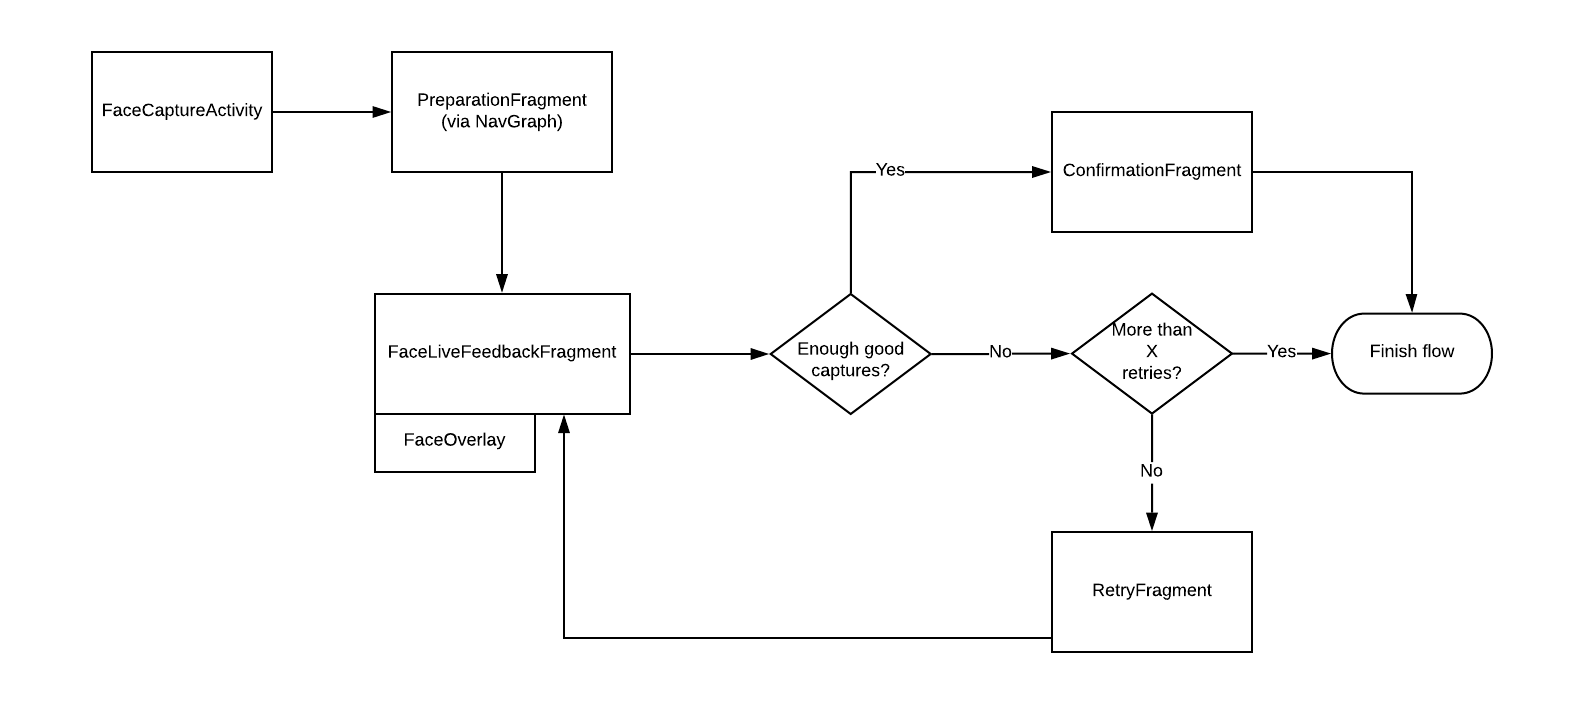
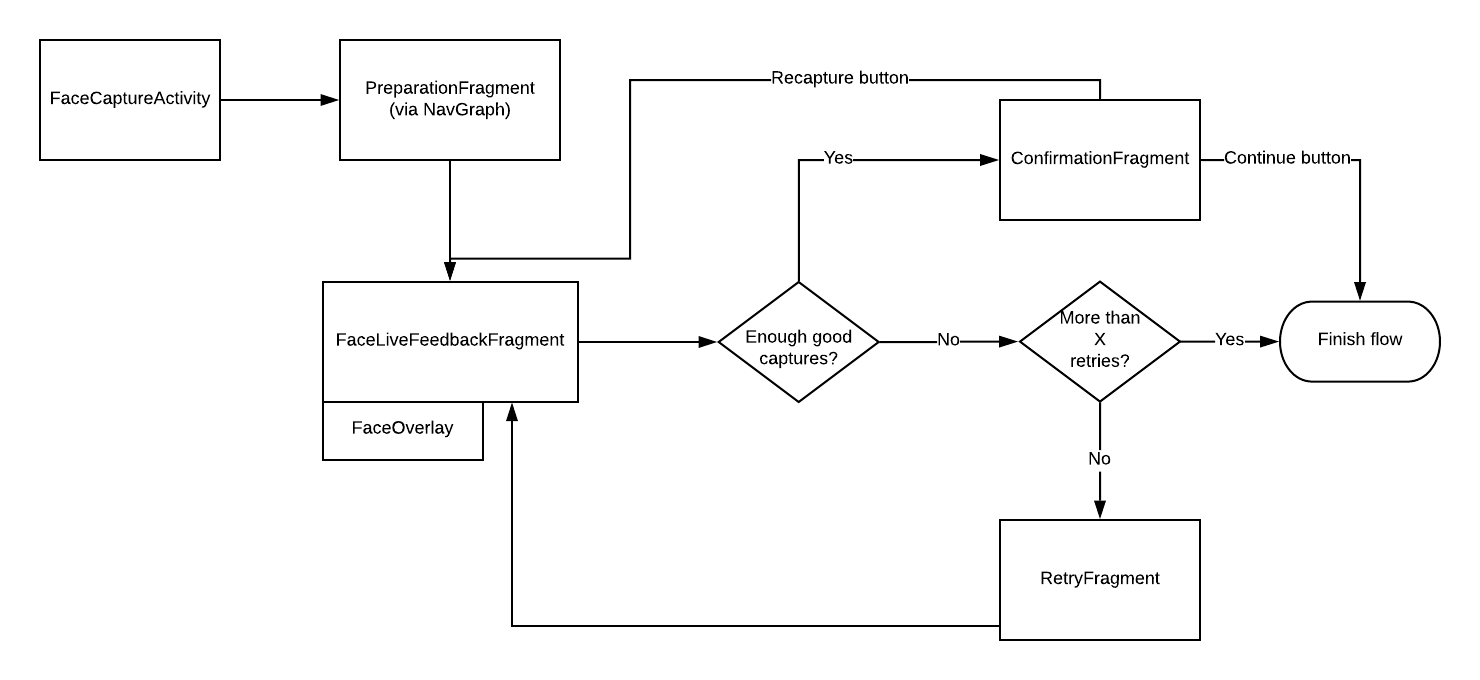
Update documentation
Former-commit-id: 4f3072160469951c6752df3753926f28e666e4dd [formerly d14b966708104308c3a3f567c73888dcd054b461]
Former-commit-id: 4cca3cc3bc59a5f918d96b4773685d9fd68394f0

diff --git a/face/src/main/java/com/simprints/face/capture/README.md b/face/src/main/java/com/simprints/face/capture/README.md
@@ -1,6 +1,6 @@
 # Capture Flow
 
-The process to call the face module is describe elsewhere. This is how face module works internally to capture the faces, extract the templates and return the results to SimprintsID.
+The process to call the face module is described elsewhere. This is how the face module works internally to capture the faces, extract the templates, and return the results to SimprintsID.
 
 The current flow looks like this:
 
@@ -8,7 +8,7 @@ The current flow looks like this:
 
 >**Should we have a CaptureFragment instead of code in the activity?**
 >
-> The point made by Tris to have a CaptureFragment was to have less code copied from one CaptureActivity (e.g. Face) to another CaptureActivity (e.g. Palm). However, the code shared by these 2 instances are the same by “fault". It wouldn’t be the same if the Palm module was not made in the same way as Face, in the similar way that Fingerprint does not share any code with Face.
+> The point made by Tris to have a CaptureFragment was to have less code copied from one CaptureActivity (e.g. Face) to another CaptureActivity (e.g. Palm). However, the code shared by these 2 instances is the same by design. It wouldn’t be the same if the Palm module was not made in the same way as Face, in a similar way that Fingerprint does not share any code with Face.
 >
 > Since we are not worried about having duplicate code between Face and Palm for this immediate future, the LiveFeedbackFragment will share code between both. Trying to generalize the code before it’s used in the wild is unnecessary effort. (March/2020)
 
@@ -16,33 +16,35 @@ The current flow looks like this:
 
 The activity (and its ViewModel) is responsible for:
 - Checking that the correct parameters were sent from SimprintsID for a correct capture (number of samples to capture, sessionId, projectId)
-- Start the navigation graph
-- Start of the camera and handle the frames being passed downstream
+- Start the Navigation Graph
+- Managing the next steps of the navigation by using events and the Navigation Graph
 - Saving the captures on disk once the flow is finished correctly
 - Finish the flow correctly and return the correct result to SimprintsID
 
-The activity is not responsible for:
-
-- Managing next steps of the navigation; each fragment has its own part on the next step to follow
-- Detecting quality and validity of faces
-
 ## When the flow finishes correctly
 
-The FaceCaptureViewModel receives all captures and save the valid ones on disk.
+The FaceCaptureViewModel receives all captures and saves the valid ones on disk.
 
 ## PreparationFragment
 
-It is a simple fragment where the user see a preparation on how to capture a good face image. Its only responsibility is to show the message and start the LiveFeedbackFragment.
+It is a simple fragment where the user sees a preparation on how to capture a good face image. Its only responsibility is to show the message and start the LiveFeedbackFragment.
 
 ## LiveFeedbackFragment
-The responsibility of this fragment (and its ViewModel) is to make sure the user receives correct information on the state of the face in the screen, i.e. if the face is valid or not and how to fix it. If the face is valid, the fragment will prompt the user to start a capture and at that time will start saving each new frame as a capture. After the number of required captures is done, the fragment finishes and go either to a ConfirmationFragment or RetryFragment.
+
+The responsibility of this fragment (and its ViewModel) is to make sure the user receives correct information on the state of the face on the screen, i.e. if the face is valid or not and how to fix it. This fragment is also responsible to start the camera and handle the frames being passed downstream from our camera library.
 
 The FaceCaptureViewModel has a channel that starts receiving frames when the camera starts. The LiveFeedbackFragment subscribe to that channel and process each frame.
 
+If the face is valid, the fragment will prompt the user to start a capture and at that time will start saving each new frame as a capture. After the number of required captures is done, the fragment finishes and goes either to a ConfirmationFragment or RetryFragment.
+
+During the live feedback process, while the user is trying to center the face on the frame, the ViewModel will keep any good image as a fallback image. This is to make sure that the user always has at least one good image, even if they move the phone too fast during the capture process. This should render the RetryFragment unreachable.
+
 ## RetryFragment
+
 If the user can retry the flow, they will come to a fragment that tells a bit more about the problem and how to solve it. Usually the same steps they should take to take a good capture. After that, they return to LiveFeedbackFragment to try again.
 
-After a number of tries, if the user still can’t take a good photo, the fragment will show some error message and return to SimprintsID an exit error.
+After several tries, if the user still can’t take a good photo, the fragment will show some error message and return to SimprintsID an exit error.
 
 ## ConfirmationFragment
-If all goes well, the user comes to a screen that congratulate them on taking a good photo and ask them to continue their flow.
+
+If all goes well, the user comes to a screen that congratulates them on taking a good photo and ask them to continue their flow.
